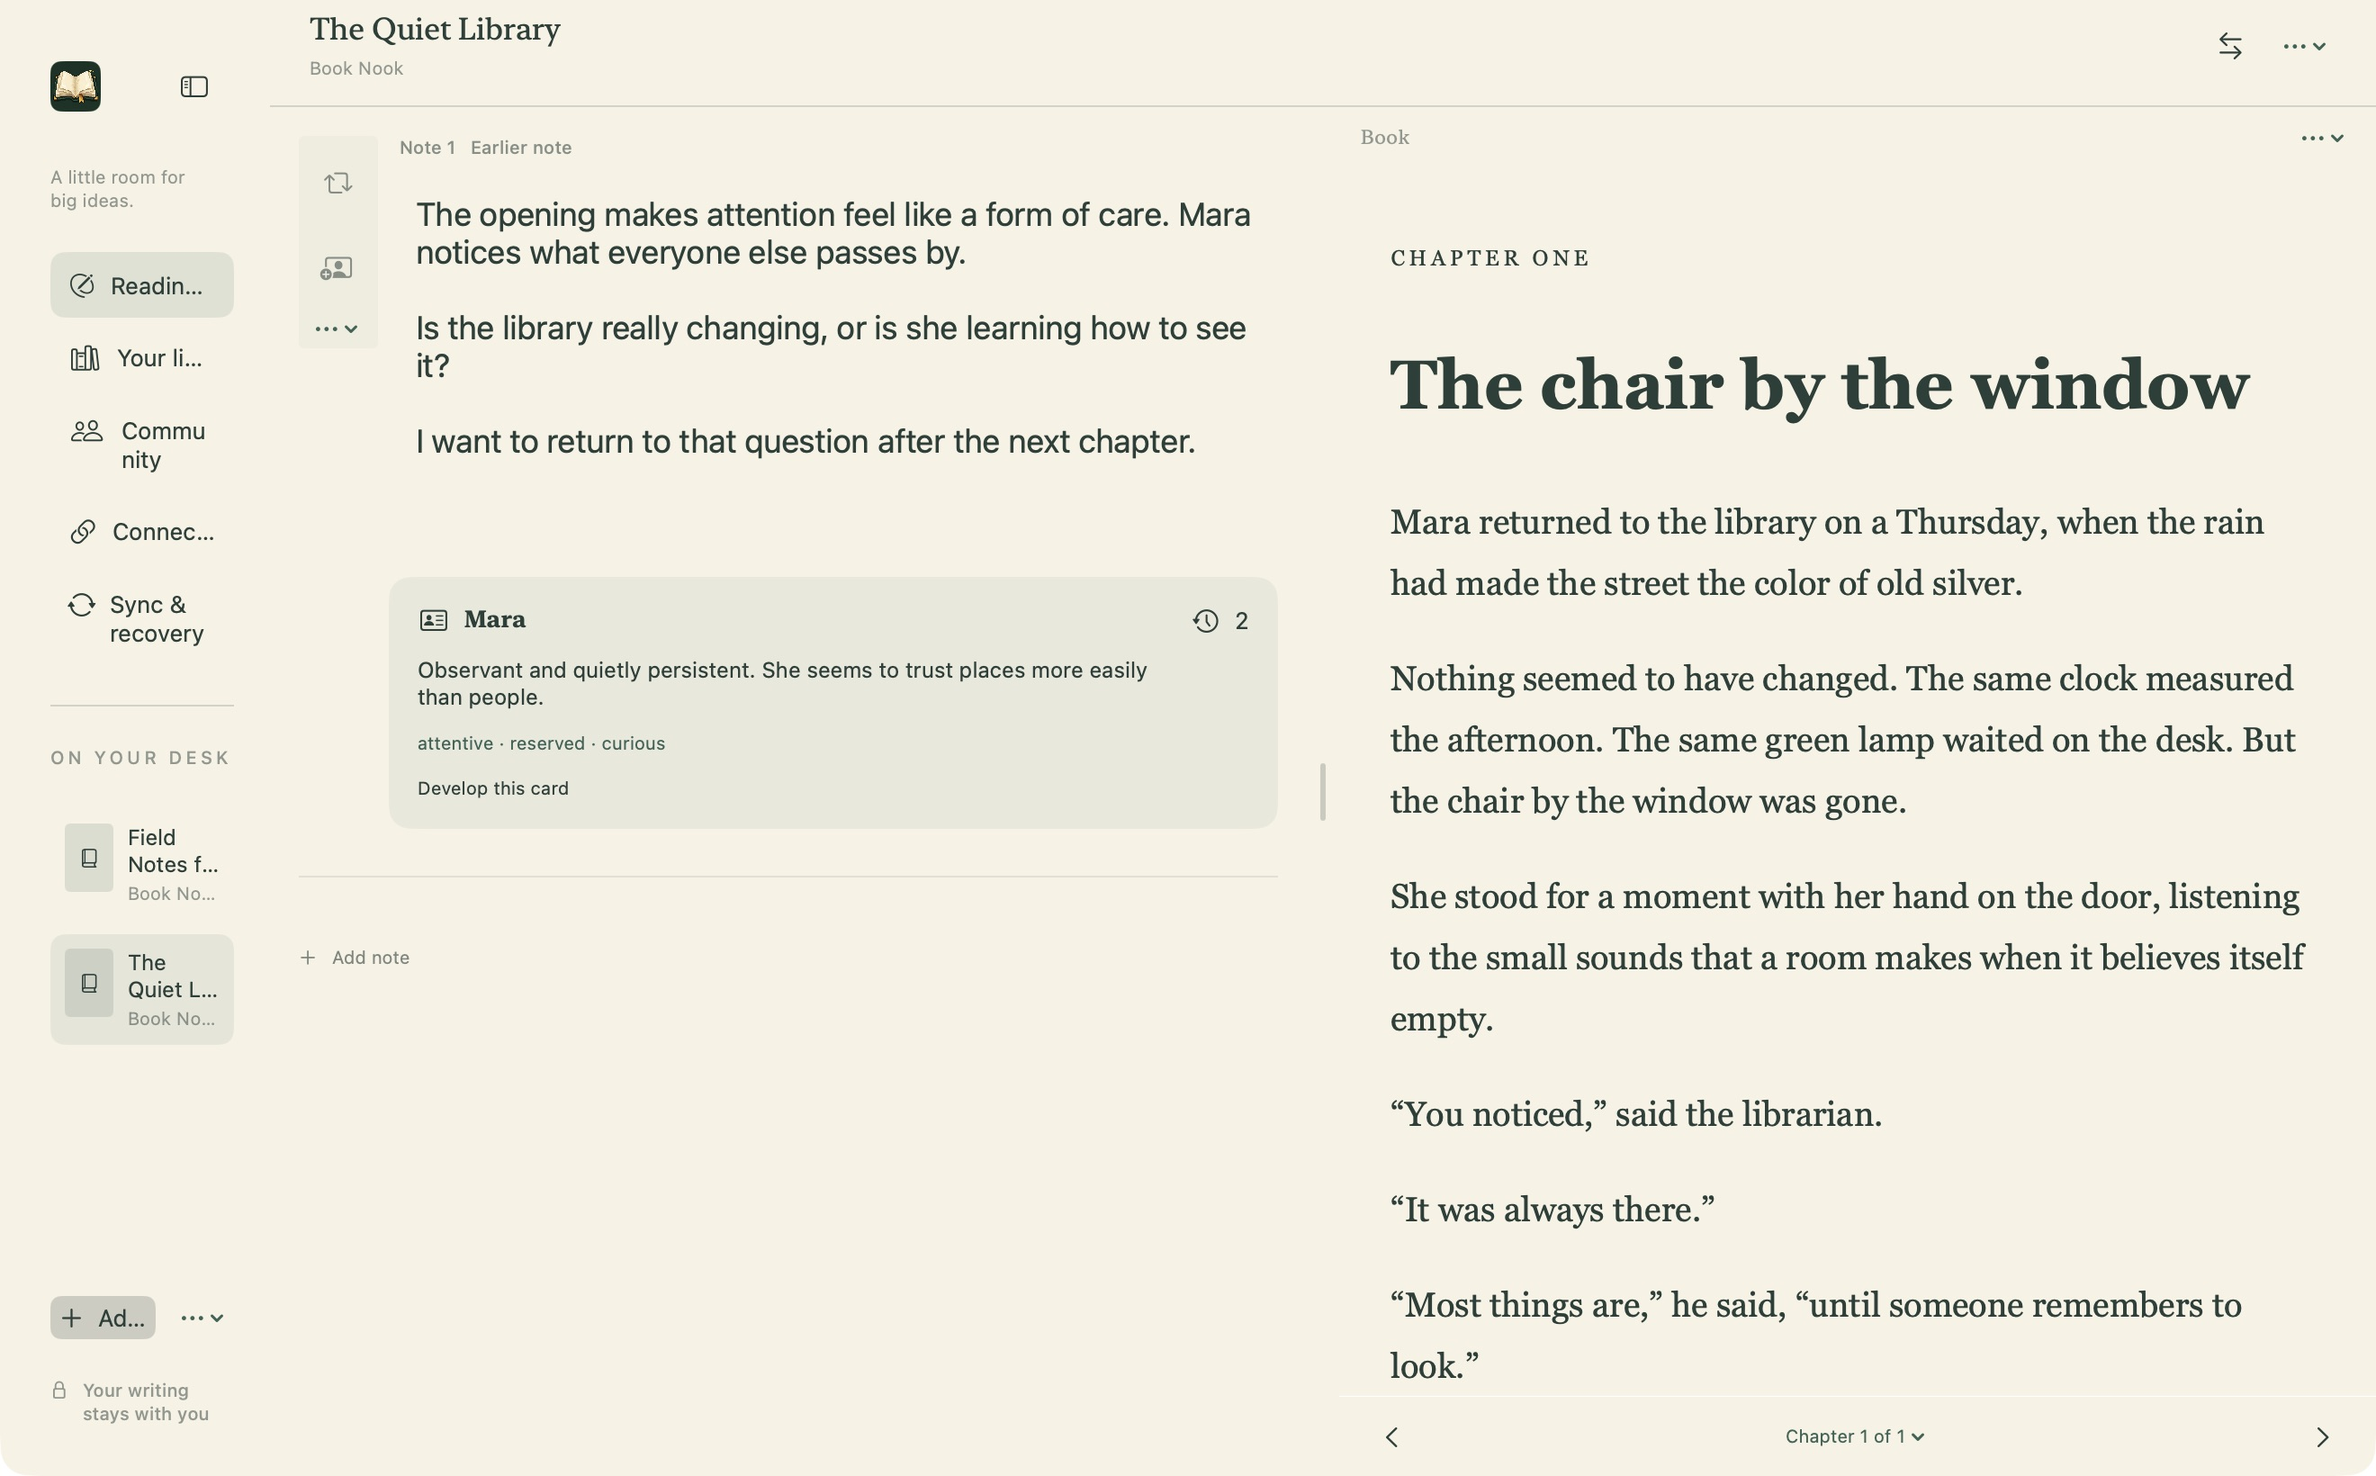
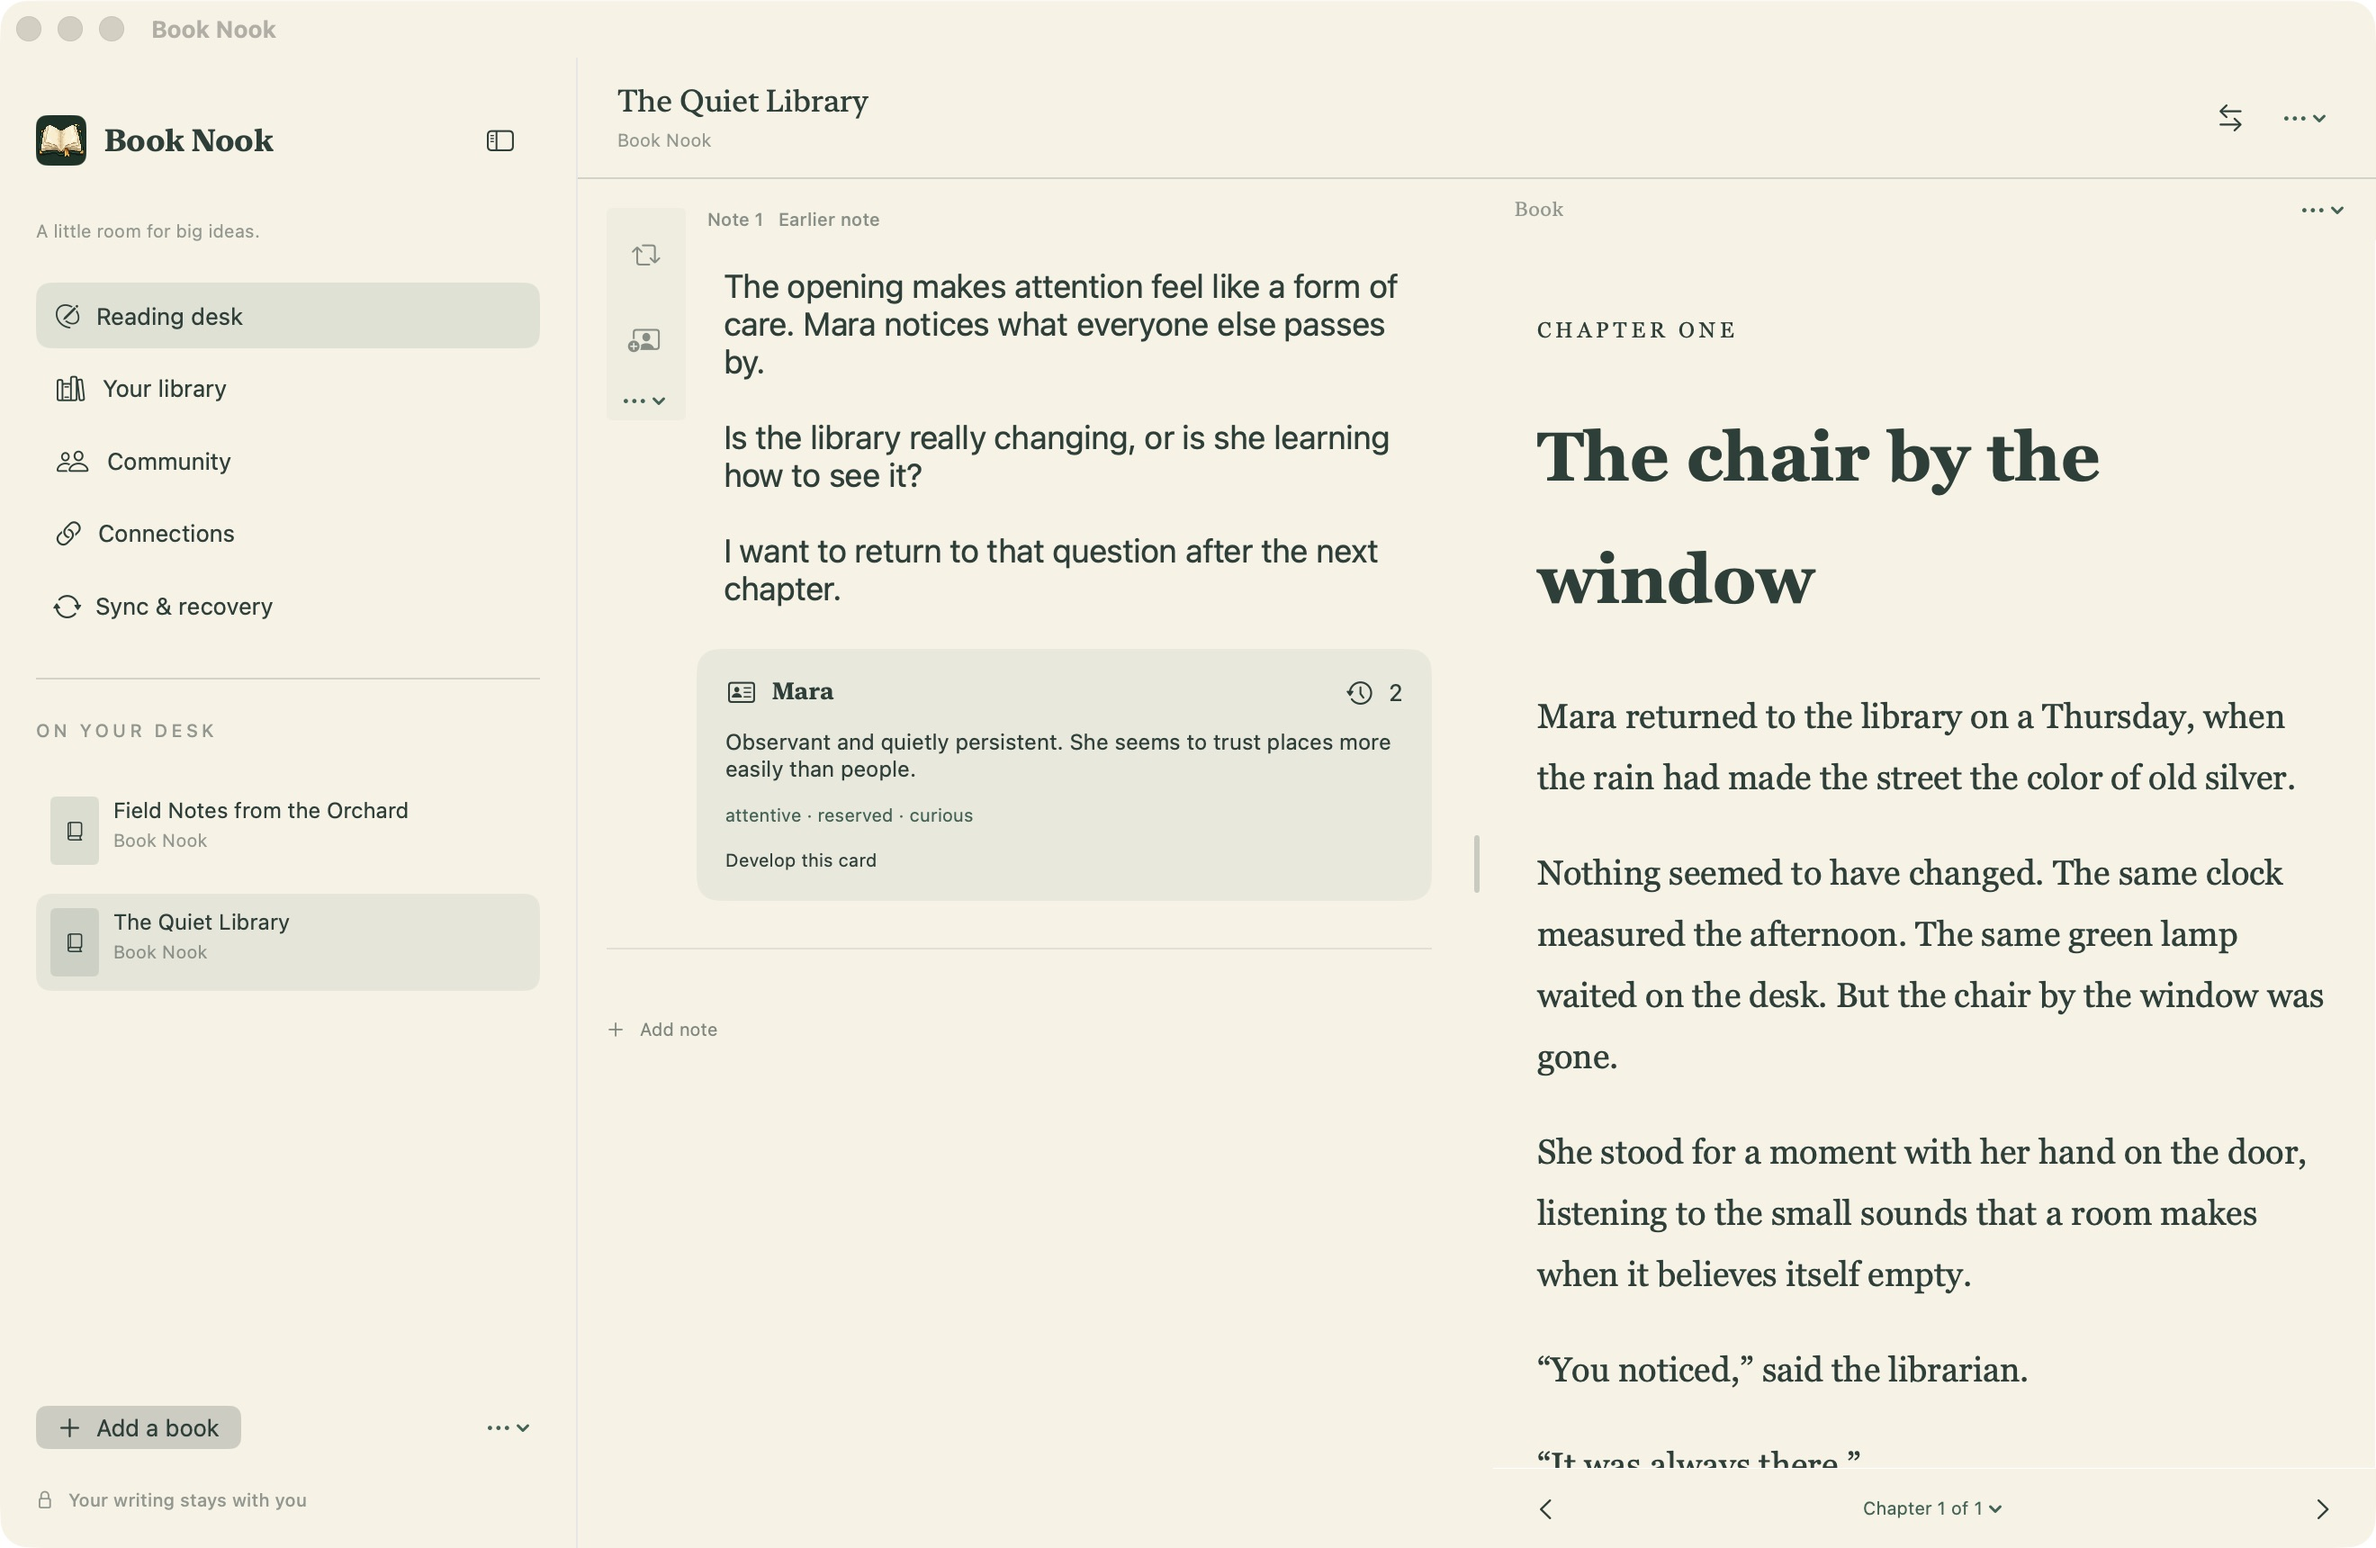
Refresh the README Mac screenshot from public build 1727

diff --git a/docs/screenshots/README.md b/docs/screenshots/README.md
@@ -4,9 +4,9 @@ Both captures use native Book Nook **0.2.1 Release apps** and synthetic desks.
 
 | Screenshot | Build | Workspace | Capture environment |
 |---|---|---|---|
-| [macOS reading desk](macos-current.jpg) | 2026111720 | *The Quiet Library* EPUB, a Margin note and a character card | macOS 26.4.1 native app window |
+| [macOS reading desk](macos-current.jpg) | 2026111727 | *The Quiet Library* EPUB, a Margin note and a character card | macOS 26.4.1 native app window |
 | [iPad reading desk](ipad-current.png) | 2026111727 | *The Quiet Library* EPUB, a Margin note and a character card | iPad Air 13-inch (M2), iPadOS 18.6 Simulator, portrait |
 
-The Mac image is an actual app window with an 80-pixel top crop. The iPad image preserves the original Simulator framebuffer. [Capture metadata](current.json) identifies each executable, source commit and image hash. [Build 1705 evidence](../app-2026111705-public-preview-evidence.json) records the separate installation on the physical iPad.
+The Mac image preserves the captured app window. The iPad image preserves the original Simulator framebuffer. [Capture metadata](current.json) identifies each executable, source commit and image hash. [Build 1727 evidence](../app-2026111727-public-preview-evidence.json) records the separate installation on the physical iPad.
 
 Each image is tied to its capture and executable. [Build 1720 evidence](../app-2026111720-public-preview-evidence.json) · [Build 1721 evidence](../app-2026111721-public-preview-evidence.json) · [Build 1722 evidence](../app-2026111722-public-preview-evidence.json) · [Build 1724 evidence](../app-2026111724-public-preview-evidence.json) · [Build 1725 evidence](../app-2026111725-public-preview-evidence.json) · [Build 1726 evidence](../app-2026111726-public-preview-evidence.json) · [Build 1727 evidence](../app-2026111727-public-preview-evidence.json)

diff --git a/docs/DECISIONS.md b/docs/DECISIONS.md
@@ -345,3 +345,4 @@ Detailed workstream records: [social](decisions/social.md), [integrations](decis
 | D257 | Qualify Companion connections with Xcode’s Simulator signing path. | The published iPad Simulator archive for build 1727 shows a Keychain entitlement error in Connections. A local Xcode rebuild paired successfully. Future Simulator archives need their own signature and Keychain check. [Companion evidence](ipados-companion-1727-evidence.json) |
 | D258 | Advertise Kindle reading positions from validated selected catalogs. | The reference companion reports the existing `kindle.positions` capability when the selected catalog contains an explicit source position and timestamp. Book Nook keeps its capability check before importing. Import, cold reopen and revocation passed against the corrected companion. [Companion evidence](ipados-companion-1727-evidence.json) |
 | D259 | Give the iPad Simulator archive a project-owned Keychain identity. | Xcode seals the Simulator app and embeds the app-scoped identity in XML and DER. Packaging verifies both encodings and the extracted bundle. The extracted app passed Companion pairing, import, reconnect and revocation. [Simulator archive evidence](ipados-simulator-packaging-1727-evidence.json) |
+| D260 | Show the same public build in both README screenshots. | The macOS screenshot captures the exact public 1727 executable in a synthetic desk, with all decoded pixels preserved. The iPad screenshot shows the same source and build in Simulator. [Capture metadata](screenshots/current.json) |

diff --git a/README.md b/README.md
@@ -100,7 +100,7 @@ The earlier iPad acceptance check [updated the normal app in place to 0.2.1 (202
 
 ![Book Nook iPad reading desk with a Margin note and character card alongside an EPUB](docs/screenshots/ipad-current.png)
 
-The Mac window shows published build **2026111720**. The iPad Simulator image shows published build **2026111727**. Both use the same sample desk. [Capture details](docs/screenshots/README.md)
+Both screenshots show published build **2026111727** with the same sample desk. The iPad screenshot is from Simulator. [Capture details](docs/screenshots/README.md)
 
 ## Run the native apps
 
